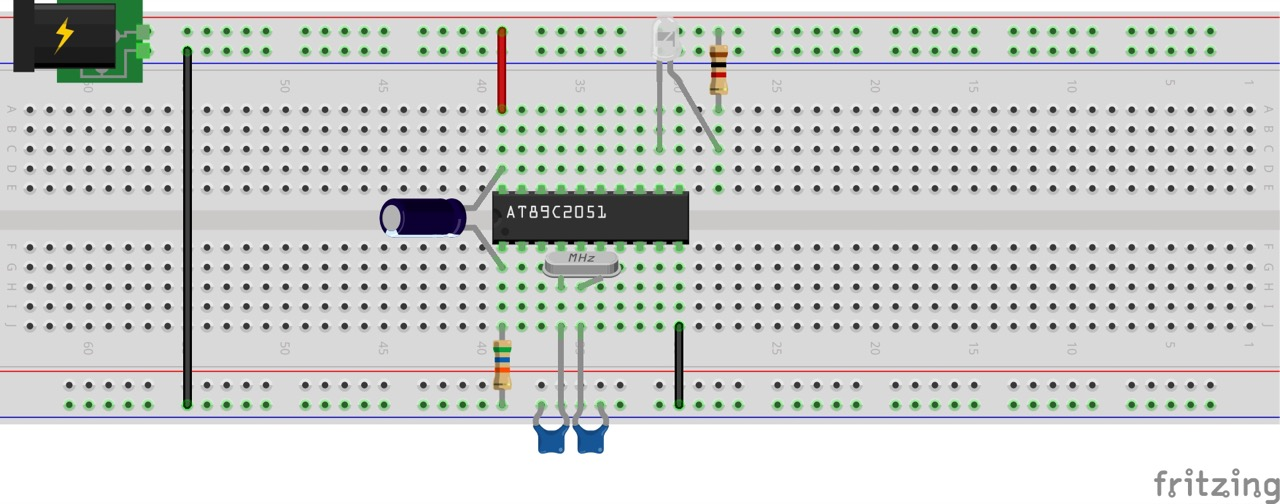
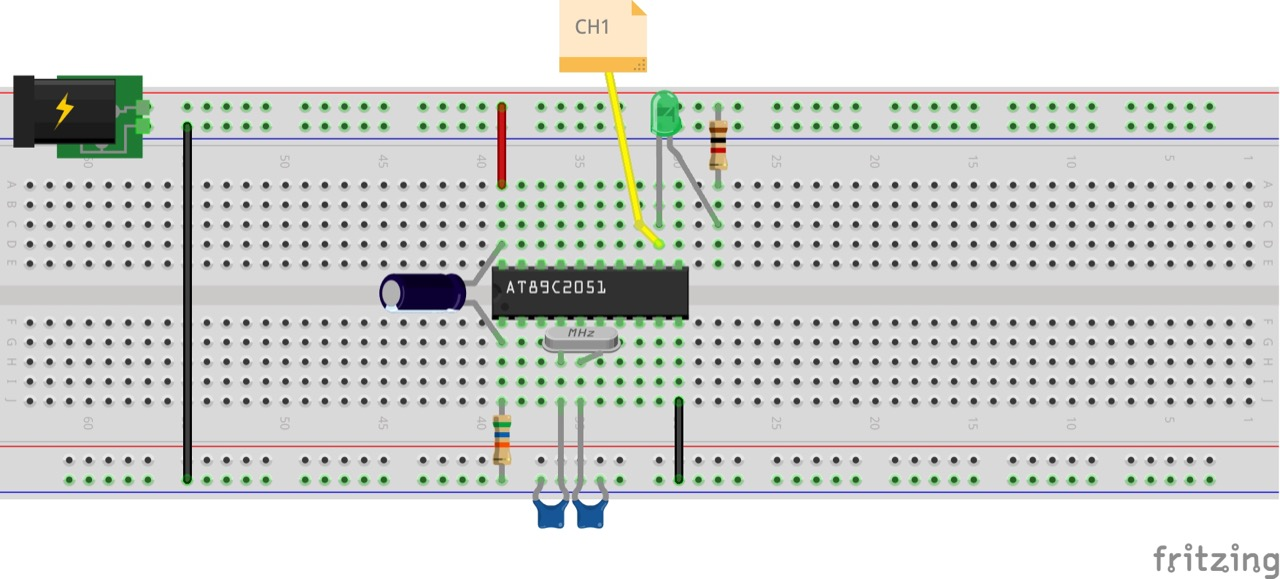
update Timer schematic with scope tap

diff --git a/8051/AT89C2051/Timers/README.md b/8051/AT89C2051/Timers/README.md
@@ -164,7 +164,7 @@ I have the circuit setup on a breadboard with the [LEAP#780 AT89C2051 Breadboard
 
 ![bb_build](./assets/Timers_bb_build.jpg?raw=true)
 
-Monitoring the LED output on the scope, running at 1Hz as expected:
+Monitoring the LED output on the scope CH1 (Yellow), running at 1Hz as expected:
 
 ![scope](assets/scope.gif)
 
